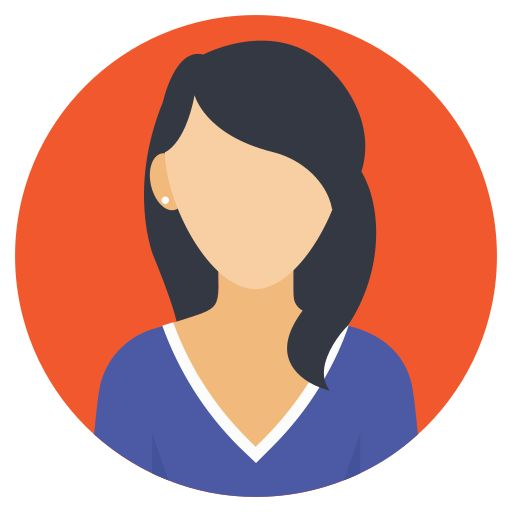
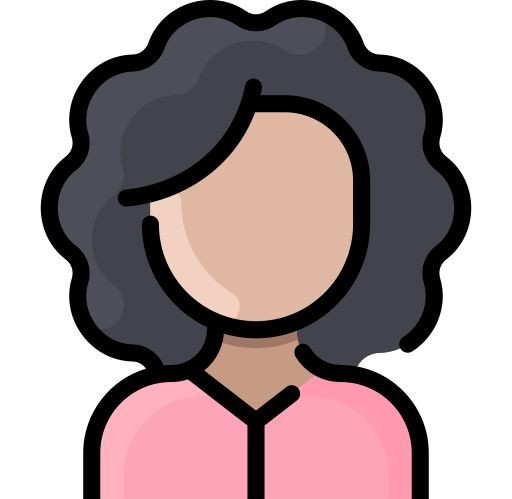
Implementacion de fotos por default y arreglos en interfaz

diff --git a/Arbol-Genealogico/scripts/UI/VisualizadorArbolUI.cs b/Arbol-Genealogico/scripts/UI/VisualizadorArbolUI.cs
@@ -382,14 +382,10 @@ namespace ArbolGenealogico.scripts.UI
                 fotoMostrada = MostrarFotoPersona(vbox, persona);
             }
 
-            //si no se muestra la foto, se pone un ícono 
+            //si no se muestra la foto, se una foto por default
             if (!fotoMostrada)
             {
-                var lblAvatar = new Label();
-                lblAvatar.Text = persona.GeneroPersona == Persona.Genero.Masculino ? "👤" : "👩";
-                lblAvatar.HorizontalAlignment = HorizontalAlignment.Center;
-                lblAvatar.AddThemeFontSizeOverride("font_size", 32);
-                vbox.AddChild(lblAvatar);
+                fotoMostrada = MostrarFotoPersona(vbox, persona);
             }
 
             //ícono de estado
@@ -400,16 +396,37 @@ namespace ArbolGenealogico.scripts.UI
             lblEstado.AddThemeColorOverride("font_color", persona.EstaVivo ? Colors.LimeGreen : Colors.DarkGray);
             vbox.AddChild(lblEstado);
 
-            //nombre completo en una línea
+            // === PANEL CONTENEDOR DEL NOMBRE ===
+            var panelNombre = new PanelContainer();
+            panelNombre.CustomMinimumSize = new Vector2(RADIO_NODO * 2 - 8, 22);
+
+            // Crear un estilo para el fondo azul (#123258)
+            var styleBoxNombre = new StyleBoxFlat(); // Nuevo nombre para no chocar con los tuyos
+            styleBoxNombre.BgColor = new Color("#334d80");
+            styleBoxNombre.CornerRadiusTopLeft = 4;
+            styleBoxNombre.CornerRadiusTopRight = 4;
+            styleBoxNombre.CornerRadiusBottomLeft = 4;
+            styleBoxNombre.CornerRadiusBottomRight = 4;
+
+            panelNombre.AddThemeStyleboxOverride("panel", styleBoxNombre);
+
+            // === LABEL DEL NOMBRE ===
             var lblNombreCompleto = new Label();
             lblNombreCompleto.Text = $"{persona.Nombre} {persona.Apellido}";
             lblNombreCompleto.HorizontalAlignment = HorizontalAlignment.Center;
-            lblNombreCompleto.AddThemeFontSizeOverride("font_size", fotoMostrada ? 8 : 10);
-            lblNombreCompleto.AddThemeColorOverride("font_color", Colors.Black);
+            lblNombreCompleto.VerticalAlignment = VerticalAlignment.Center;
             lblNombreCompleto.AutowrapMode = TextServer.AutowrapMode.Word;
-            lblNombreCompleto.CustomMinimumSize = new Vector2(RADIO_NODO * 2 - 8, 0);
-            vbox.AddChild(lblNombreCompleto);
 
+            lblNombreCompleto.AddThemeColorOverride("font_color", Colors.White);
+            lblNombreCompleto.AddThemeFontSizeOverride("font_size", 12);
+
+            // Agregar label dentro del panel azul
+            panelNombre.AddChild(lblNombreCompleto);
+
+            // Agregar ese panel al vbox del nodo
+            vbox.AddChild(panelNombre);
+
+            // Tu línea original (esta sí se queda)
             contenedorCanvas.AddChild(panel);
 
             //botón de información
@@ -430,25 +447,46 @@ namespace ArbolGenealogico.scripts.UI
 
                 Texture2D texture = null;
 
-                // Verificar si existe en res://
-                if (ResourceLoader.Exists(persona.RutaFotografia))
+                // si hay ruta fotografica, intenta cargar la foto
+
+                if (persona.RutaFotografia != "")
                 {
-                    texture = GD.Load<Texture2D>(persona.RutaFotografia);
-                    GD.Print($"✓ Foto cargada con GD.Load: {persona.RutaFotografia}");
-                }
-                // Si no existe en res://, intentar cargar desde sistema de archivos
-                else
-                {
-                    string rutaAbsoluta = ProjectSettings.GlobalizePath(persona.RutaFotografia);
-                    if (System.IO.File.Exists(rutaAbsoluta))
+                    // Verificar si existe en res://
+                    if (ResourceLoader.Exists(persona.RutaFotografia))
                     {
-                        var image = Image.LoadFromFile(rutaAbsoluta);
-                        if (image != null)
+                        texture = GD.Load<Texture2D>(persona.RutaFotografia);
+                        GD.Print($"✓ Foto cargada con GD.Load: {persona.RutaFotografia}");
+                    }
+                    // Si no existe en res://, intentar cargar desde sistema de archivos
+                    else
+                    {
+                        string rutaAbsoluta = ProjectSettings.GlobalizePath(persona.RutaFotografia);
+                        if (System.IO.File.Exists(rutaAbsoluta))
                         {
-                            texture = ImageTexture.CreateFromImage(image);
-                            GD.Print($"✓ Foto cargada con Image.LoadFromFile: {rutaAbsoluta}");
+                            var image = Image.LoadFromFile(rutaAbsoluta);
+                            if (image != null)
+                            {
+                                texture = ImageTexture.CreateFromImage(image);
+                                GD.Print($"✓ Foto cargada con Image.LoadFromFile: {rutaAbsoluta}");
+                            }
                         }
                     }
+                }
+
+                // si no hay ruta fotografica asignada a la persona, se carga imagen por default
+                else
+                {
+                    Image image = null;
+                    if (persona.GeneroPersona == Persona.Genero.Masculino)
+                    {
+                        image = Image.LoadFromFile("res://fotos_default/personaHombre.jpg");
+                    }
+                    else
+                    {
+                        image = Image.LoadFromFile("res://fotos_default/personaMujer.jpg");
+                    }
+
+                    texture = ImageTexture.CreateFromImage(image);
                 }
 
                 if (texture != null)
